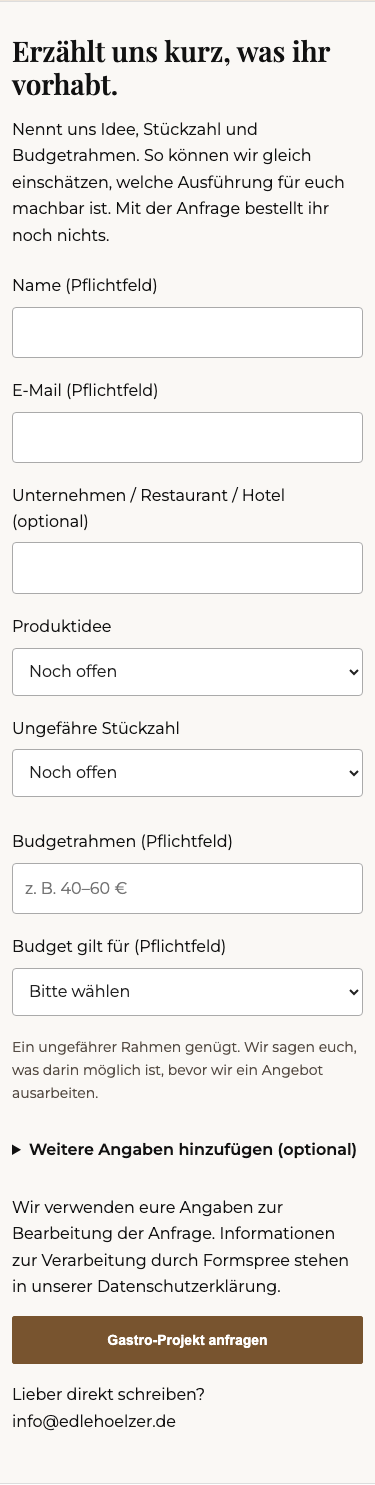
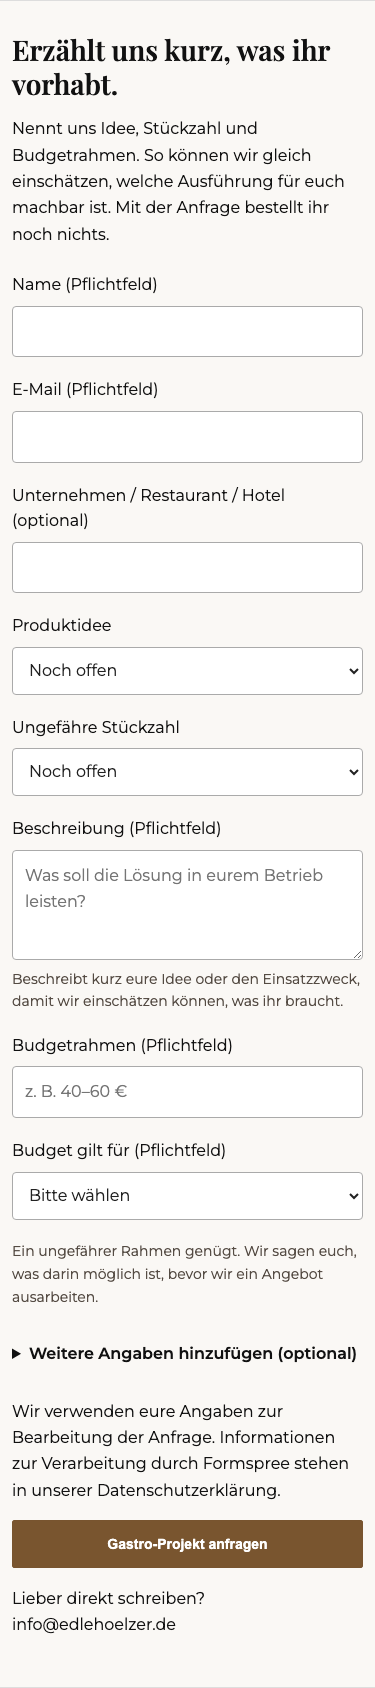
Refine gastro images and require descriptions for open project ideas

diff --git a/schneidebretter-gastronomie/index.html b/schneidebretter-gastronomie/index.html
@@ -21,7 +21,7 @@
   <link rel="stylesheet" href="/styles.css?v=20261023-erbstueck-series">
   <link rel="stylesheet" href="/assets/css/page-summary.css">
   <link rel="stylesheet" href="/assets/css/board-inquiry.css">
-  <link rel="stylesheet" href="/assets/css/gastronomie.css?v=20261026-kompakt">
+  <link rel="stylesheet" href="/assets/css/gastronomie.css?v=20261026-bilder-anfrage">
   <script type="application/ld+json">
   {
     "@context": "https://schema.org",
@@ -29,7 +29,7 @@
       {"@type":"WebPage","@id":"https://edlehoelzer.de/schneidebretter-gastronomie/#webpage","url":"https://edlehoelzer.de/schneidebretter-gastronomie/","name":"Schneidebretter & Holzlösungen für Gastronomie | Edle Hölzer","description":"Individuelle Schneide- und Servierbretter aus Massivholz für Restaurants und Hotels. Maß, Logo, Saftrille und kompakte Holzlösungen aus Mittelhessen.","inLanguage":"de","isPartOf":{"@type":"WebSite","name":"Edle Hölzer","url":"https://edlehoelzer.de/"},"breadcrumb":{"@id":"https://edlehoelzer.de/schneidebretter-gastronomie/#breadcrumb"}},
       {"@type":"BreadcrumbList","@id":"https://edlehoelzer.de/schneidebretter-gastronomie/#breadcrumb","itemListElement":[{"@type":"ListItem","position":1,"name":"Startseite","item":"https://edlehoelzer.de/"},{"@type":"ListItem","position":2,"name":"Schneidebretter für Gastronomie","item":"https://edlehoelzer.de/schneidebretter-gastronomie/"}]},
       {"@type":"FAQPage","@id":"https://edlehoelzer.de/schneidebretter-gastronomie/#faq","mainEntity":[
-        {"@type":"Question","name":"Fertigt ihr auch Produkte außerhalb klassischer Schneidebretter?","acceptedAnswer":{"@type":"Answer","text":"Ja, sofern Produktgröße, Material, Konstruktion und Nutzung zu unserer Werkstatt passen. Kompakte Holzlösungen prüfen wir vorab; Möbelbau und Innenausbau gehören nicht zu diesem Angebot."}},
+        {"@type":"Question","name":"Fertigt ihr auch Produkte außerhalb klassischer Schneidebretter?","acceptedAnswer":{"@type":"Answer","text":"Ja. Frühstücks-, Brunch- und Serviertabletts können wir individuell gestalten. Auch bestimmte Umbaumaßnahmen im Innenausbau sind nach gemeinsamer Abstimmung möglich. Umfang, Material, Budget und Machbarkeit klären wir vorab."}},
         {"@type":"Question","name":"Sind kleine Stückzahlen möglich?","acceptedAnswer":{"@type":"Answer","text":"Ja. Einzelstücke und Serien bis zu 100 Exemplaren sind möglich. Ausführung, Stückpreis und Liefertermin stimmen wir passend zu eurem Projekt und Budget ab."}},
         {"@type":"Question","name":"Sind Sondermaße möglich?","acceptedAnswer":{"@type":"Answer","text":"Ja, wenn Format und Aufbau für die geplante Nutzung technisch sinnvoll sind. Maße, Stärke, Gewicht und Handhabung stimmen wir vor der Fertigung ab."}},
         {"@type":"Question","name":"Kann unser Logo graviert werden?","acceptedAnswer":{"@type":"Answer","text":"Je nach Produkt und Motiv ist eine Logo-Gravur möglich. Größe, Position und Lesbarkeit prüfen wir auf dem gewählten Holz, bevor ihr die Ausführung freigebt."}},
@@ -41,7 +41,7 @@
   <script src="/assets/js/consent-manager.js?v=20260823-intent" defer></script>
   <script src="/assets/js/page-summary.js" defer></script>
   <script src="/assets/js/board-inquiry.js" defer></script>
-  <script src="/assets/js/gastronomie.js?v=20261026-kompakt" defer></script>
+  <script src="/assets/js/gastronomie.js?v=20261026-bilder-anfrage" defer></script>
 </head>
 <body class="gastroPage">
 <a class="gastroSkip" href="#gastro-inhalt">Zum Inhalt</a>
@@ -115,11 +115,6 @@
           <p>Holzuntersetzer und kompakte Präsentationsflächen für Café, Hotel und Service. Eigene Formen prüfen wir projektbezogen.</p>
         </article>
       </div>
-      <div class="gastroCarouselNav" data-carousel-controls="gastro-solutions">
-        <button type="button" data-carousel-prev aria-controls="gastro-solutions" aria-label="Vorherige Auswahl" title="Vorherige Auswahl"><img src="/assets/icons/lucide/chevron-left.svg" alt="" width="20" height="20" loading="eager" decoding="async"></button>
-        <span data-carousel-position aria-live="polite" aria-atomic="true">1 / 4</span>
-        <button type="button" data-carousel-next aria-controls="gastro-solutions" aria-label="Nächste Auswahl" title="Nächste Auswahl"><img src="/assets/icons/lucide/chevron-right.svg" alt="" width="20" height="20" loading="eager" decoding="async"></button>
-      </div>
     </div>
   </section>
 
@@ -145,9 +140,11 @@
         </div>
         <label>Unternehmen / Restaurant / Hotel (optional)<input name="company" autocomplete="organization" maxlength="120"></label>
         <div class="boardInquiry__fields">
-          <label>Produktidee<select name="product_idea"><option value="noch offen">Noch offen</option><option>Steak-/Tranchierbrett</option><option>Servierbrett</option><option>Kaffee-/Espressobrett</option><option>Untersetzer / kleine Holzlösung</option><option>Individuelle Sonderlösung</option></select></label>
+          <label>Produktidee<select name="product_idea"><option value="noch offen">Noch offen</option><option>Steak-/Tranchierbrett</option><option>Servierbrett</option><option>Frühstücks-, Brunch- oder Serviertablett</option><option>Kaffee-/Espressobrett</option><option>Untersetzer / kleine Holzlösung</option><option>Individuelle Sonderlösung</option></select></label>
           <label>Ungefähre Stückzahl<select name="quantity"><option value="noch offen">Noch offen</option><option>1–5</option><option>6–15</option><option>16–30</option><option>31–50</option><option>51–100</option></select></label>
         </div>
+        <div data-gastro-description-anchor></div>
+        <label data-gastro-description><span data-gastro-description-label>Beschreibung (Pflichtfeld)</span><textarea name="message" maxlength="3000" required aria-describedby="gastro-description-help" placeholder="Was soll die Lösung in eurem Betrieb leisten?"></textarea><span id="gastro-description-help" class="gastroBudgetHelp">Beschreibt kurz eure Idee oder den Einsatzzweck, damit wir einschätzen können, was ihr braucht.</span></label>
         <div class="boardInquiry__fields gastroBudgetFields">
           <label>Budgetrahmen (Pflichtfeld)<input name="budget" required maxlength="120" placeholder="z. B. 40–60 €" aria-describedby="budget-help"></label>
           <label>Budget gilt für (Pflichtfeld)<select name="budget_basis" required aria-describedby="budget-help"><option value="">Bitte wählen</option><option value="pro Stück">Pro Stück</option><option value="Gesamtprojekt">Gesamtprojekt</option></select></label>
@@ -159,7 +156,7 @@
           <label>Gravur / Logo<select name="engraving"><option value="">Noch offen</option><option>Logo oder Name gewünscht</option><option>Ohne Gravur</option></select></label>
           <label>Wunschtermin<input name="timing" maxlength="100" placeholder="Datum oder Zeitraum"></label>
           <label>Telefon<input type="tel" name="phone" autocomplete="tel" inputmode="tel" maxlength="40"></label>
-        </div><label>Beschreibung / Nachricht<textarea name="message" maxlength="3000" placeholder="Was soll die Lösung in eurem Betrieb leisten?"></textarea></label><p>Skizzen, Fotos oder ein Logo könnt ihr uns anschließend per E-Mail schicken.</p></details>
+        </div><div data-gastro-optional-message></div><p>Skizzen, Fotos oder ein Logo könnt ihr uns anschließend per E-Mail schicken.</p></details>
         <p>Wir verwenden eure Angaben zur Bearbeitung der Anfrage. Informationen zur Verarbeitung durch Formspree stehen in unserer <a href="/datenschutz.html">Datenschutzerklärung</a>.</p>
         <button type="submit" class="btn btn--emphasis">Gastro-Projekt anfragen</button>
         <p role="status" aria-live="polite" tabindex="-1"></p>
@@ -172,11 +169,6 @@
     <div class="container">
       <div class="sectionIntro"><p class="eyebrow eyebrow--dark">Einzelangebote als Referenz</p><h2 id="portfolio-title">Bretter als Ausgangspunkt.</h2><p>Die angezeigten Preise gelten für die jeweiligen Einzelangebote. Für mehrere Exemplare kalkulieren wir einen eigenen, mengenabhängigen Stückpreis. Maß, Holz und Details können wir auf euer Projekt abstimmen.</p></div>
       <div id="products-gastro" class="landingProductGrid" data-gastro-carousel role="region" aria-label="Referenzprodukte" tabindex="0"></div>
-      <div class="gastroCarouselNav" data-carousel-controls="products-gastro">
-        <button type="button" data-carousel-prev aria-controls="products-gastro" aria-label="Vorherige Auswahl" title="Vorherige Auswahl"><img src="/assets/icons/lucide/chevron-left.svg" alt="" width="20" height="20" loading="eager" decoding="async"></button>
-        <span data-carousel-position aria-live="polite" aria-atomic="true">1 / 4</span>
-        <button type="button" data-carousel-next aria-controls="products-gastro" aria-label="Nächste Auswahl" title="Nächste Auswahl"><img src="/assets/icons/lucide/chevron-right.svg" alt="" width="20" height="20" loading="eager" decoding="async"></button>
-      </div>
       <noscript><p>Die Produktansichten benötigen JavaScript. Im <a href="/produkte.html">aktuellen Sortiment</a> findest du weitere Bretter; eine Sonderausführung kannst du über das Formular anfragen.</p></noscript>
       <div class="ctaRow"><a href="/produkte.html" class="btn btn--ghost-dark" data-umami-event="gastro_portfolio_open">Aktuelles Sortiment ansehen</a><a href="/schneidebrett-nach-mass/" class="textLink" data-umami-event="gastro_custom_solution_open">Schneidebrett nach Maß</a></div>
     </div>
@@ -184,7 +176,7 @@
 
   <section id="sonderloesungen" class="section gastroFeasibility" aria-labelledby="feasibility-title">
     <div class="container gastroSplit">
-      <div><p class="eyebrow">Nach eurem Einsatz gefertigt</p><h2 id="feasibility-title">Eure Idee. Handwerklich geprüft.</h2><p>Maße, Stärke, Holzart, Kanten, Griffmulden oder Aussparungen stimmen wir auf die Nutzung ab. Mehr zur <a href="/schneidebrett-saftrille/">Saftrille</a> und <a href="/schneidebrett-mit-gravur/">Logo-Gravur</a>.</p><p>Auch kompakte Sonderlösungen prüfen wir. Möbelbau, Innenausbau und komplette Gastronomieausstattung sind nicht Teil dieses Angebots.</p></div>
+      <div><p class="eyebrow">Nach eurem Einsatz gefertigt</p><h2 id="feasibility-title">Eure Idee. Handwerklich geprüft.</h2><p>Maße, Stärke, Holzart, Kanten, Griffmulden oder Aussparungen stimmen wir auf die Nutzung ab. Mehr zur <a href="/schneidebrett-saftrille/">Saftrille</a> und <a href="/schneidebrett-mit-gravur/">Logo-Gravur</a>.</p><p>Frühstücks-, Brunch- und Serviertabletts gestalten wir nach euren Vorstellungen. Auch bestimmte Umbaumaßnahmen im Innenausbau sind nach Abstimmung möglich. Was zu eurem Projekt passt, prüfen wir gemeinsam.</p></div>
       <div><h3>Vor dem Angebot klären wir:</h3><ul class="gastroCheck"><li>Funktion, Format und geeignetes Material</li><li>Stückzahl und Fertigungsaufwand</li><li>Was im Budgetrahmen möglich ist</li><li>Ausführung und verbindlichen Liefertermin</li></ul><p>Wenn eine Idee nicht sinnvoll umsetzbar ist, sagen wir das offen.</p></div>
     </div>
   </section>
@@ -198,7 +190,7 @@
 
   <section id="faq" class="section section--white" aria-labelledby="faq-title">
     <div class="container"><h2 id="faq-title">Häufige Fragen</h2><div class="faqList">
-      <details class="faqItem"><summary>Fertigt ihr auch Produkte außerhalb klassischer Schneidebretter?</summary><p>Ja, sofern Produktgröße, Material, Konstruktion und Nutzung zu unserer Werkstatt passen. Kompakte Holzlösungen prüfen wir vorab; Möbelbau und Innenausbau gehören nicht zu diesem Angebot.</p></details>
+      <details class="faqItem"><summary>Fertigt ihr auch Produkte außerhalb klassischer Schneidebretter?</summary><p>Ja. Frühstücks-, Brunch- und Serviertabletts können wir individuell gestalten. Auch bestimmte Umbaumaßnahmen im Innenausbau sind nach gemeinsamer Abstimmung möglich. Umfang, Material, Budget und Machbarkeit klären wir vorab.</p></details>
       <details class="faqItem"><summary>Sind kleine Stückzahlen möglich?</summary><p>Ja. Einzelstücke und Serien bis zu 100 Exemplaren sind möglich. Ausführung, Stückpreis und Liefertermin stimmen wir passend zu eurem Projekt und Budget ab.</p></details>
       <details class="faqItem"><summary>Sind Sondermaße möglich?</summary><p>Ja, wenn Format und Aufbau für die geplante Nutzung technisch sinnvoll sind. Maße, Stärke, Gewicht und Handhabung stimmen wir vor der Fertigung ab.</p></details>
       <details class="faqItem"><summary>Kann unser Logo graviert werden?</summary><p>Je nach Produkt und Motiv ist eine Logo-Gravur möglich. Größe, Position und Lesbarkeit prüfen wir auf dem gewählten Holz, bevor ihr die Ausführung freigebt.</p></details>

diff --git a/assets/js/gastronomie.js b/assets/js/gastronomie.js
@@ -1,11 +1,6 @@
 (function () {
   "use strict";
   document.querySelectorAll("[data-gastro-carousel]").forEach(function (track) {
-    var controls = document.querySelector('[data-carousel-controls="' + track.id + '"]');
-    if (!controls) return;
-    var previous = controls.querySelector("[data-carousel-prev]");
-    var next = controls.querySelector("[data-carousel-next]");
-    var position = controls.querySelector("[data-carousel-position]");
     function slides() { return Array.from(track.children).filter(function (child) { return child.tagName === "ARTICLE"; }); }
     function current(items) {
       var max = Math.max(0, track.scrollWidth - track.clientWidth);
@@ -17,31 +12,34 @@
       });
       return nearest;
     }
-    function update() {
-      var items = slides();
-      var index = items.length ? current(items) : 0;
-      previous.disabled = index === 0;
-      next.disabled = !items.length || index === items.length - 1;
-      var label = (items.length ? index + 1 : 0) + " / " + items.length;
-      if (position.textContent !== label) position.textContent = label;
-    }
     function go(index) {
       var items = slides();
       if (!items.length) return;
       index = Math.max(0, Math.min(items.length - 1, index));
       track.scrollTo({left: items[index].offsetLeft - items[0].offsetLeft, behavior: window.matchMedia("(prefers-reduced-motion: reduce)").matches ? "auto" : "smooth"});
     }
-    previous.addEventListener("click", function () { go(current(slides()) - 1); });
-    next.addEventListener("click", function () { go(current(slides()) + 1); });
     track.addEventListener("keydown", function (event) {
-      if (event.target !== track || !["ArrowLeft", "ArrowRight", "Home", "End"].includes(event.key)) return;
+      if (track.scrollWidth <= track.clientWidth + 1 || event.target !== track || !["ArrowLeft", "ArrowRight", "Home", "End"].includes(event.key)) return;
       event.preventDefault();
       var index = current(slides());
       go(event.key === "Home" ? 0 : event.key === "End" ? slides().length - 1 : index + (event.key === "ArrowRight" ? 1 : -1));
     });
-    track.addEventListener("scroll", update, {passive: true});
-    new MutationObserver(update).observe(track, {childList: true});
-    if ("ResizeObserver" in window) new ResizeObserver(update).observe(track);
-    update();
   });
+  var form = document.querySelector("[data-board-inquiry]");
+  if (!form) return;
+  var idea = form.elements.product_idea;
+  var description = form.querySelector("[data-gastro-description]");
+  var anchor = form.querySelector("[data-gastro-description-anchor]");
+  var optional = form.querySelector("[data-gastro-optional-message]");
+  function updateDescription() {
+    var required = ["noch offen", "Individuelle Sonderlösung"].includes(idea.value);
+    form.elements.message.required = required;
+    description.querySelector("[data-gastro-description-label]").textContent = required ? "Beschreibung (Pflichtfeld)" : "Beschreibung / Nachricht (optional)";
+    document.getElementById("gastro-description-help").hidden = !required;
+    if (required) anchor.after(description);
+    else optional.append(description);
+  }
+  idea.addEventListener("change", updateDescription);
+  form.addEventListener("reset", function () { setTimeout(updateDescription, 0); });
+  updateDescription();
 })();

diff --git a/assets/css/gastronomie.css b/assets/css/gastronomie.css
@@ -30,7 +30,7 @@
 .gastroPage .pageSummary dl{grid-template-columns:repeat(4,minmax(0,1fr));gap:24px}
 .gastroSolutions{display:grid;grid-template-columns:repeat(4,minmax(0,1fr));gap:24px}
 .gastroSolutions article{min-width:0}
-.gastroSolutions img{width:100%;height:auto;aspect-ratio:1;object-fit:contain;background:#f4f4f2;display:block;border-radius:4px}
+.gastroSolutions img{width:100%;height:auto;aspect-ratio:1;object-fit:cover;background:#f4f4f2;display:block;border-radius:4px}
 .gastroSolutions h3{margin:18px 0 10px}
 .gastroSolutions p{font-size:15px;margin:10px 0 0}
 .gastroSolutions .gastroDetail{font-size:13px;color:#5b5149}
@@ -66,7 +66,6 @@
 .gastroPricing h2{margin-bottom:0}
 .gastroPricing p:first-child{margin-top:0}
 .gastroBudgetHelp{font-size:14px;color:#544b43;margin-top:0}
-.gastroCarouselNav{display:none}
 .gastroPage .boardInquiry{background:#faf8f5}
 .gastroFeasibility{background:var(--ink-warm)}
 .gastroFeasibility a:not(.btn){color:#fff;text-decoration:underline;text-underline-offset:4px}
@@ -86,15 +85,9 @@
   .gastroSplit{grid-template-columns:1fr;gap:18px}
   .gastroPage .pageSummary dl{grid-template-columns:repeat(2,minmax(0,1fr));gap:18px 16px}
   .gastroPage .pageSummary :is(dt,dd){font-size:14px}
-  .gastroSolutions,.gastroPage #products-gastro{display:grid;grid-template-columns:none;grid-auto-flow:column;grid-auto-columns:88%;gap:16px;overflow-x:auto;scroll-snap-type:x mandatory;overscroll-behavior-x:contain;padding-bottom:12px;scrollbar-width:thin}
+  .gastroSolutions,.gastroPage #products-gastro{display:grid;grid-template-columns:none;grid-auto-flow:column;grid-auto-columns:88%;gap:16px;overflow-x:auto;scroll-snap-type:x mandatory;overscroll-behavior-x:contain;padding:0 0 12px;margin-inline:0;scrollbar-width:thin}
   .gastroSolutions>article,.gastroPage #products-gastro>article{scroll-snap-align:start}
-  .gastroSolutions img{aspect-ratio:4/3}
   .gastroSolutions h3{font-size:20px}
-  .gastroCarouselNav{display:flex;align-items:center;justify-content:flex-end;gap:16px;margin-top:10px}
-  .gastroCarouselNav button{display:grid;place-items:center;width:44px;height:44px;flex:none;border:1px solid #a9937c;border-radius:4px;background:transparent;color:var(--ink);cursor:pointer}
-  .gastroCarouselNav button:disabled{opacity:.35;cursor:default}
-  .gastroCarouselNav button img{width:20px;height:20px}
-  .gastroCarouselNav span{min-width:40px;text-align:center;font-size:14px}
   .gastroWorkshop>img{height:220px}
   .gastroPage .boardInquiry{padding:32px 0}
   .gastroPage .boardInquiry .boardInquiry__fields{grid-template-columns:1fr;gap:0}

diff --git a/docs/gastronomie-landingpage-2026-10-26.md b/docs/gastronomie-landingpage-2026-10-26.md
@@ -36,7 +36,7 @@ Eine H1. Die expliziten Begriffe „Schneidebretter“ und „Servierbretter“ 
 
 1. Kompakter Produktfoto-Hero mit H1 und zwei Einstiegen.
 2. Kurzantwort und vier kompakte „Auf einen Blick“-Punkte.
-3. Vier Einsatzbereiche: mobil natives Swipe-Raster mit Pfeilen, Positionsanzeige und Tastaturbedienung.
+3. Vier Einsatzbereiche: mobil natives Swipe-Raster ohne zusätzliche Zähler-/Pfeilleiste, weiterhin mit Tastaturbedienung.
 4. Mengen-/Preisorientierung vom Einzelstück bis zu 100 Exemplaren.
 5. Anfrageformular mit sichtbarem Pflichtbudget, noch vor den Referenzprodukten.
 6. Vier Einzelangebote als Preis- und Produktreferenz; mobil ebenfalls horizontal durchsehbar.
@@ -47,9 +47,11 @@ Kein separater Planungs-/Fräsabschnitt, kein zusätzlicher Standardwaren-, Anpa
 
 ## 6. Wortzahl
 
-730–748 zunächst sichtbare Wörter im Hauptinhalt einschließlich Produktkarten und ihrer je Bildschirmbreite sichtbaren Mediensteuerung, zuvor 1.025–1.037. Zugeklappte FAQ-Antworten und optionale Formularangaben erhöhen die zugängliche Textmenge. Navigation und Footer sind ausgeschlossen. Die mobile Swipe-Auswahl verkürzt zusätzlich die vertikale Strecke; eine Conversion-Wirkung wurde nicht gemessen.
+761–773 zunächst sichtbare Wörter im Hauptinhalt einschließlich bedingter Pflichtbeschreibung, Produktkarten und ihrer je Bildschirmbreite sichtbaren Mediensteuerung, ursprünglich 1.025–1.037. Zugeklappte FAQ-Antworten und optionale Formularangaben erhöhen die zugängliche Textmenge. Navigation und Footer sind ausgeschlossen. Die mobile Swipe-Auswahl verkürzt zusätzlich die vertikale Strecke; eine Conversion-Wirkung wurde nicht gemessen.
 
 ## 7. Bildaudit und Verwendung
+
+Einsatzbilder werden auf jeder Breite quadratisch und bildfüllend zugeschnitten (`object-fit: cover`). Referenzprodukte verwenden weiterhin die vorhandenen quadratischen Produktkarten. Hero und Werkstattmotiv behalten ihre eigenständigen Formate.
 
 Keine neuen Stock- oder generierten Bilder. Vorhandene lokale Fotografien und Bildmotive bestehender Katalogeinträge; bei den Lösungsbildern mit der bereits für Produktgalerien verwendeten 794-Pixel-Ableitung statt unnötig großer Originale. Keine neuen Bilddateien für die öffentliche Seite. Die Abnahme-Screenshots sind nur Dokumentation.
 
@@ -104,7 +106,9 @@ Direkt sichtbar: Name und E-Mail als Pflichtfelder; Unternehmen/Restaurant/Hotel
 
 Budgetrahmen und die Zuordnung „Pro Stück / Gesamtprojekt“ sind sichtbar und verpflichtend. Ein ungefährer Betrag oder Bereich reicht; beide Felder müssen vor dem Senden ausgefüllt sein. Das Budget soll die Machbarkeitsprüfung und Angebotskalkulation von Anfang an eingrenzen.
 
-Optionale Angaben in einem nativen, per Tastatur bedienbaren Accordion: Wunschmaß, Holzvorstellung, Gravur/Logo, Wunschtermin, Telefon, Beschreibung/Nachricht. Keine versteckte Pflichtangabe im Accordion.
+Bei „Noch offen“ und „Individuelle Sonderlösung“ ist eine Beschreibung direkt sichtbar und verpflichtend. Bei konkreten Produktideen wandert dasselbe Feld in den optionalen Bereich; Eingaben bleiben beim Wechsel erhalten. Ein Formular-Reset stellt den Pflichtzustand der Vorauswahl wieder her. Frühstücks-, Brunch- oder Serviertablett ist zusätzlich auswählbar.
+
+Optionale Angaben in einem nativen, per Tastatur bedienbaren Accordion: Wunschmaß, Holzvorstellung, Gravur/Logo, Wunschtermin und Telefon. Keine versteckte Pflichtangabe im Accordion.
 
 Bestehendes `data-board-inquiry`, `board-inquiry.css`, `board-inquiry.js` und Formspree-Ziel `maqanpld`; eigener Betreff „Gastronomie-Projektanfrage“. Honeypot, browserseitige E-Mail-Validierung, Versandstatus, Timeout, Fehlerhinweis und Erhalt der Eingaben bei Fehlern bleiben im vorhandenen Handler. Skizzen/Logos später per E-Mail, kein neues Uploadsystem. Datenschutzlink direkt am Formular. Keine Bestellung oder Lieferzusage durch Auswahl einer Stückzahl.
 
@@ -122,8 +126,8 @@ Zwei vorhandene Umami-Klickattribute für `gastro_portfolio_open` und `gastro_cu
 - Asset-Audit: 265 Medien, keine kritischen Befunde; 24 bestehende Hinweise außerhalb des Auftrags.
 - Browser: 375, 430, 768, 1024 und 1440 px; keine JavaScript-Fehler und kein horizontaler Overflow. Hero lässt den nächsten Abschnitt erkennen, alle verwendeten Bilder laden.
 - Produktfenster auf allen fünf Breiten geöffnet und geschlossen.
-- Form: Pflichtfelder, ungültige E-Mail, fehlendes Budget und fehlende Budgetbasis blockieren den Versand. Optionaler Bereich, Fehlerfall 503, Eingabeerhalt, Wiederholung, simulierte Erfolgsantwort, Fokus und Status geprüft. Budget und Basis sind im simulierten Formular-POST enthalten, nicht in Analytics. Kein echter Formspree-Post.
-- Mobile: echte Touch-Gesten über Chromium geprüft; beide horizontalen Auswahlen zusätzlich über Pfeile, Home/End und Tastatur geprüft. Keine automatische Wiedergabe oder Bewegung.
+- Form: Pflichtfelder, ungültige E-Mail, fehlendes Budget und fehlende Budgetbasis blockieren den Versand. Optionaler Bereich, Fehlerfall 503, Eingabeerhalt, Wiederholung, simulierte Erfolgsantwort, Fokus und Status geprüft. Bedingte Pflichtbeschreibung für offene Ideen und Sonderlösungen, optionaler Zustand für konkrete Produkte, Eingabeerhalt beim Wechsel und Reset geprüft. Budget und Basis sind im simulierten Formular-POST enthalten, nicht in Analytics. Kein echter Formspree-Post.
+- Mobile: echte Touch-Gesten über Chromium geprüft; beide horizontalen Auswahlen zusätzlich über Pfeiltasten und Home/End geprüft. Sichtbare Zähler und Pfeilleisten entfernt. Keine automatische Wiedergabe oder Bewegung.
 - FAQ per Tastatur geöffnet; Schema-Antworten stimmen mit der Seite überein. Kein manueller Screenreader- oder vollständiger assistiver Gerätetest.
 - Interne Ziele und lokale Bilder auf Existenz geprüft, externe Vorschau HTTP 200; `.git/config` extern HTTP 404.
 - `git diff --check`: bestanden.
@@ -166,4 +170,4 @@ Sachlich notwendige Überschneidung bei Maß/Gravur, aber keine Kopie bestehende
 
 ## 18. Bewusst nicht versprochene Sonderlösungen
 
-Kein Möbelbau, Innenausbau, Ladenbau, Holzbau, Großobjekt oder komplette Gastronomieausstattung. Keine beliebigen Holzprodukte, erfundenen Mindestmengen, automatischen Mengenrabatte, pauschalen Lieferfristen ohne Abstimmung, pauschale HACCP-Eignung, technische Zertifizierung oder formale Ingenieursleistung. Nicht jede Konstruktion, Aussparung oder Holzart wird automatisch empfohlen. Eine Idee kann nach Prüfung auch abgelehnt oder vereinfacht werden.
+Nach erneuter Owner-Abstimmung sind individuelle Frühstücks-, Brunch- und Serviertabletts sowie bestimmte Umbaumaßnahmen im Innenausbau möglich. Kein pauschales Versprechen für jede Innenausbau- oder Komplettausstattung; Umfang, Material, Budget und Machbarkeit werden projektbezogen abgestimmt. Keine beliebigen Holzprodukte, erfundenen Mindestmengen, automatischen Mengenrabatte, pauschalen Lieferfristen ohne Abstimmung, pauschale HACCP-Eignung, technische Zertifizierung oder formale Ingenieursleistung. Nicht jede Konstruktion, Aussparung oder Holzart wird automatisch empfohlen. Eine Idee kann nach Prüfung auch abgelehnt oder vereinfacht werden.
